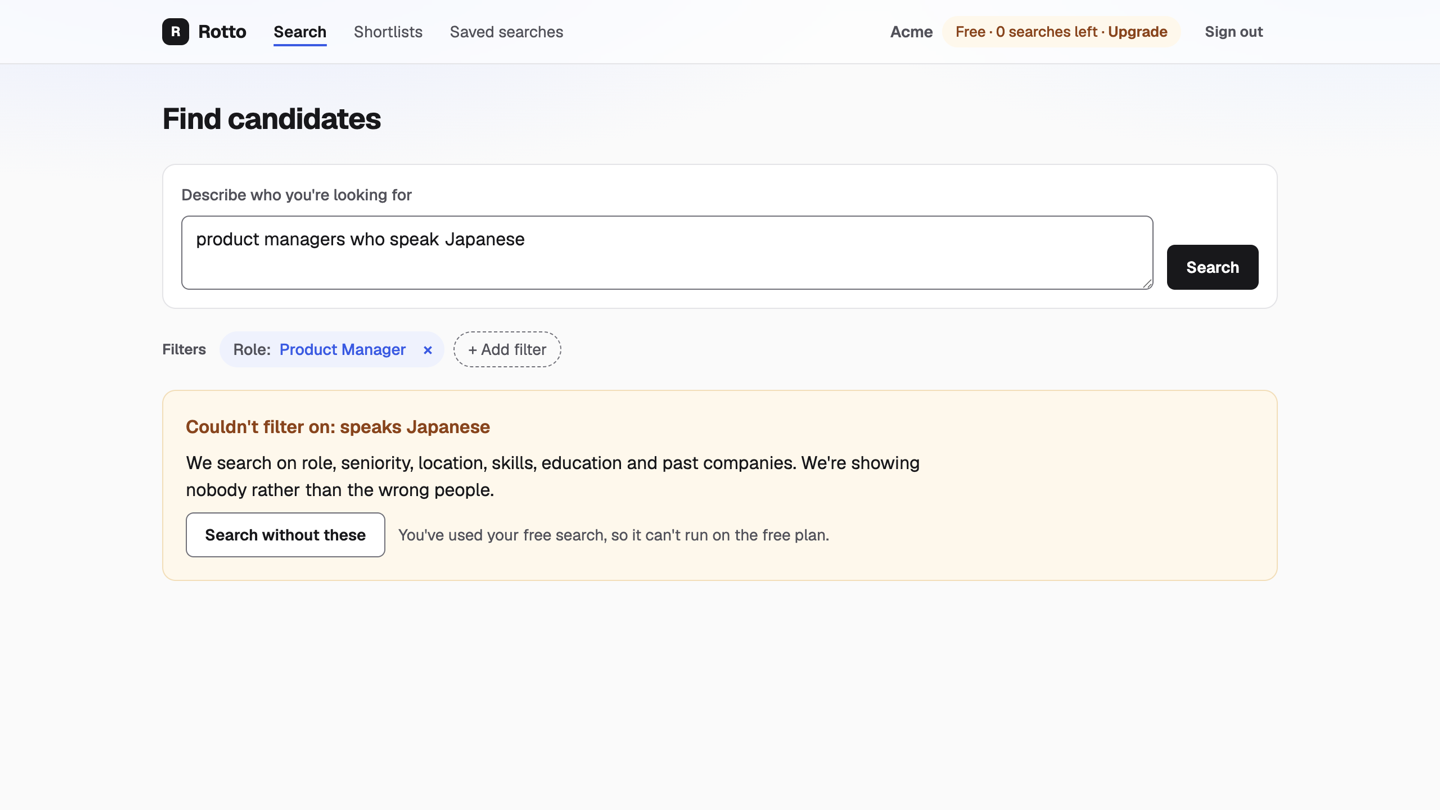
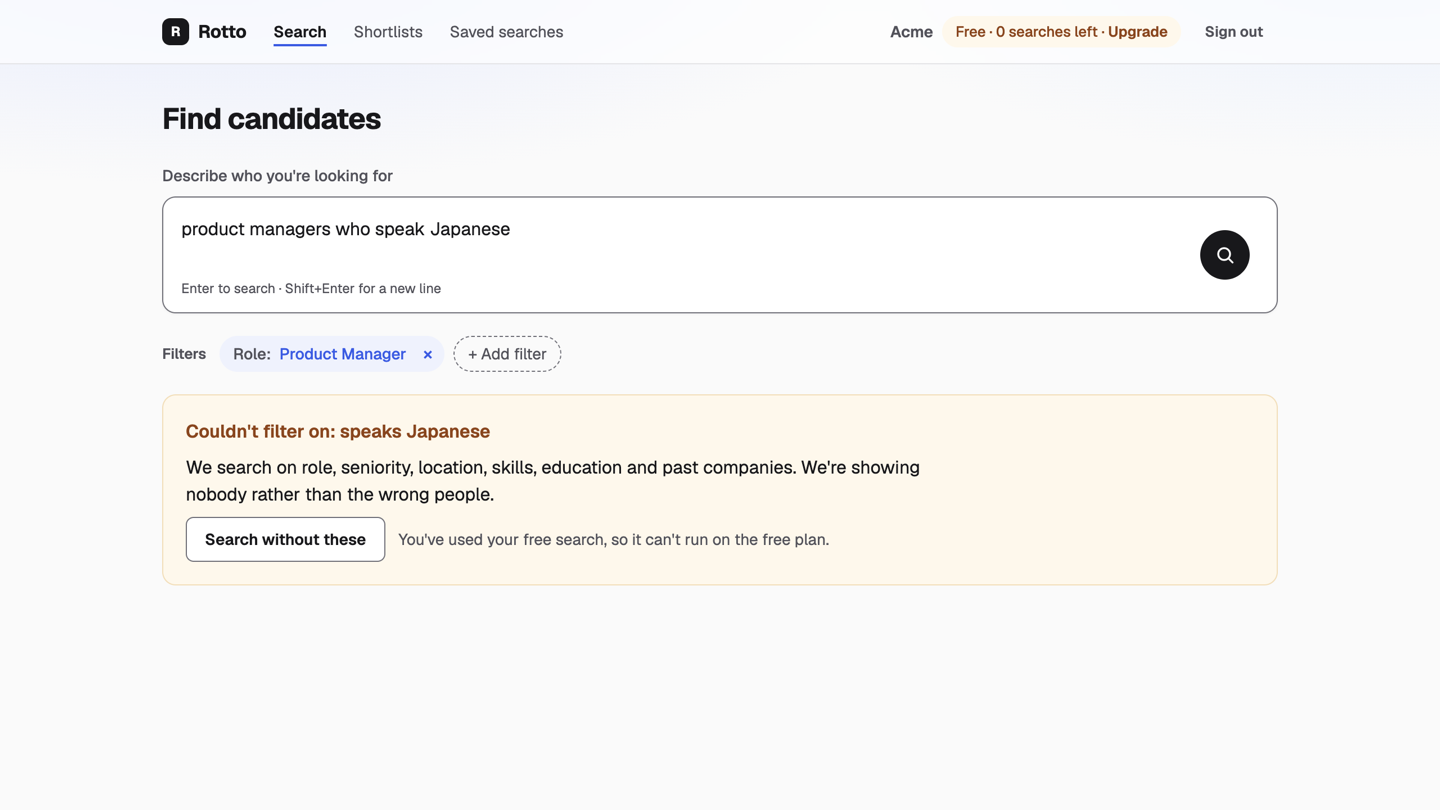
docs: retake README screenshots and record the UI decisions
FR1 and FR3 to FR6, the API table, the request map, the UI summary and
LLD section 6 describe the search page as built. Decisions recorded:
adding a filter still counts as a search for now (with the rule that
would make it free), and where sign-in lands. The plan gets S11, the
README its next steps and a start page screenshot.

Changed region(s): [[0.125, 0.5247, 0.875, 0.7407], [0.125, 0.2778, 0.875, 0.463], [0.125, 0.1852, 0.375, 0.3086]]

diff --git a/cypress/tour/screens.cy.ts b/cypress/tour/screens.cy.ts
@@ -36,6 +36,7 @@ function apiPost(
 }
 
 const README_SHOTS = new Set([
+  "desktop-02-search-welcome",
   "desktop-03-search-results",
   "desktop-04-candidate",
   "desktop-06-shortlist",
@@ -51,7 +52,7 @@ for (const size of SIZES) {
   describe(`Screens (${size.name})`, () => {
     const shot = (name: string) => {
       if (!README_SHOTS.has(`${size.name}-${name}`)) return;
-      cy.wait(300); // let fonts and images settle
+      cy.wait(800); // let fonts and images settle
       cy.screenshot(`${size.name}-${name}`, { capture: size.capture, overwrite: true });
     };
 
@@ -83,28 +84,40 @@ for (const size of SIZES) {
       cy.visit("/sign-in");
       signIn("recruiter@acme.test");
       cy.contains("h1", "Find candidates").should("be.visible");
-      shot("02-search-welcome");
 
       apiPost("/api/search", { brief: BRIEF, filters: FILTERS }).then(({ body }) => {
         const searchId = body.search_id as string;
         const firstId = body.results?.[0]?.id as string;
-        cy.visit(`/search?id=${searchId}`);
-        cy.contains("h2", "candidates").should("be.visible");
-        shot("03-search-results");
 
-        cy.visit(`/people/${firstId}`);
-        cy.get("h1").should("be.visible");
-        shot("04-candidate");
-
-        apiPost("/api/shortlists", { name: "Frontend, New York" }).then(({ body: list }) => {
-          for (const result of body.results?.slice(0, 3) ?? []) {
+        // Two results go on a list first, so the results show who is already shortlisted
+        // and the start page has a shortlist to show.
+        apiPost("/api/shortlists", { name: "NY frontend" }).then(({ body: list }) => {
+          for (const result of body.results?.slice(0, 2) ?? []) {
             apiPost(`/api/shortlists/${list.id}/people/${result.id}`, {});
           }
+
+          // The start page as a recruiter with a free search left sees it.
+          cy.task("resetSearches", "acme");
+          cy.visit("/search");
+          cy.contains("h2", "Saved searches").should("be.visible");
+          cy.contains("h2", "Shortlists").should("be.visible");
+          shot("02-search-welcome");
+
+          cy.task("useFreeSearch", "acme");
+          cy.visit(`/search?id=${searchId}`);
+          cy.contains("h2", "candidates").should("be.visible");
+          cy.contains("button", "✓ On NY frontend").should("be.visible");
+          shot("03-search-results");
+
+          cy.visit(`/people/${firstId}`);
+          cy.get("h1").should("be.visible");
+          shot("04-candidate");
+
           cy.visit("/shortlists");
-          cy.contains("Frontend, New York").should("be.visible");
+          cy.contains("NY frontend").should("be.visible");
           shot("05-shortlists");
           cy.visit(`/shortlists/${list.id}`);
-          cy.contains("h1", "Frontend, New York").should("be.visible");
+          cy.contains("h1", "NY frontend").should("be.visible");
           shot("06-shortlist");
         });
       });

diff --git a/docs/ARCHITECTURE.md b/docs/ARCHITECTURE.md
@@ -8,12 +8,12 @@
 
 Recruiters should be able to:
 
-- **FR1** search for candidates by describing them in plain English, and see the filters the app understood plus ranked, paged results;
+- **FR1** search for candidates by describing them in plain English, and see the filters the app understood plus ranked, paged results, where each result opens the candidate and says which of their shortlists the candidate is already on;
 - **FR2** correct a search by editing or removing any understood filter, without retyping the brief;
 - **FR3** view a candidate's experience, education and skills;
-- **FR4** create, rename and delete named shortlists, and add or remove candidates;
-- **FR5** save a search and re-run it later;
-- **FR6** see their plan and searches remaining (free plan: 1 search in total, paging is free);
+- **FR4** create, rename and delete named shortlists, add or remove candidates, and see their newest shortlists on the search start page;
+- **FR5** save a search and re-run it later, and see their newest saved searches on the search start page;
+- **FR6** see their company, plan and searches remaining (free plan: 1 search in total, paging is free);
 
 and the system should:
 
@@ -180,7 +180,7 @@ Every recruiter route takes `Authorization: Bearer <supabase access token>`.
 
 | Route | Returns | Errors |
 |---|---|---|
-| `POST /api/search` `{ brief, filters? }` | `{ search_id, filters, unsupported, total, results[20], searches_remaining }` | 400, 401, 402 limit reached, 503 LLM down |
+| `POST /api/search` `{ brief, filters? }` | `{ search_id, filters, unsupported, total, results[20], searches_remaining }`; each result says which of my lists the candidate is on | 400, 401, 402 limit reached, 503 LLM down |
 | `GET /api/search/:id?page=N` | `{ search_id, page, page_size, total, results }` | 400, 401, 404 |
 | `GET /api/vocabulary` | allowed values for the filter editor | 401 |
 | `GET /api/people/:id` | candidate + experiences + education | 401, 404 |
@@ -188,7 +188,7 @@ Every recruiter route takes `Authorization: Bearer <supabase access token>`.
 | `GET` / `PATCH` / `DELETE /api/shortlists/:id` | members / rename / delete | 401, 404 |
 | `POST` / `DELETE /api/shortlists/:id/people/:personId` | 200 (adding twice changes nothing) | 401, 404 |
 | `GET` / `POST /api/saved-briefs`, `DELETE /api/saved-briefs/:id` | list / `{ id }` / 204 | 400, 401, 404 |
-| `GET /api/plan` | `{ plan: "free" or "paid", searches_remaining: number or null }` | 401 |
+| `GET /api/plan` | `{ plan: "free" or "paid", searches_remaining: number or null, company_name }` | 401 |
 | `POST /api/billing/events` (no token) | 200, also for repeats and ignored types | 400 bad signature |
 
 Another company's resource returns **404, not 403**, so the API never confirms it exists. Errors share one shape: `{ error: { code, message } }`.
@@ -241,6 +241,7 @@ flowchart LR
 
     S1 -- "(server) spend_search_credit, LLM, run_search" --> T1[("private: companies, searches,<br/>search_results, candidates")]
     S2 -- "(server) get_search_page: 20 rows by (search_id, rank)<br/>scoped to my company, never touches the quota" --> T1
+    S1 & S2 -- "recruiter client: which of my lists each result is on" --> T3
     S3 -- "(server) distinct values, cached in memory" --> T2
     P1 -- "(server) read one candidate" --> T2[("private: candidates, experiences, educations")]
     P1 -- "recruiter client: my shortlist_ids" --> T3
@@ -285,9 +286,9 @@ How each requirement flows:
 
 - **FR1 Search.** The browser sends the brief to `POST /api/search`. The route verifies the token, spends one search credit, asks Claude for filters, validates them, runs one SQL query, stores the ranked ids and returns page 1. *(Deep dives 6.1 to 6.3.)*
 - **FR2 Correct.** The browser sends the edited filters with the brief; Claude is skipped, everything else is the same. It counts as a new search.
-- **FR3 View.** `GET /api/people/:id` reads one candidate with experiences and education.
-- **FR4, FR5 Lists and saved searches.** Simple create, read, update and delete, run as the recruiter so RLS limits it to their company. *(Deep dive 6.4.)*
-- **FR6 Plan.** `GET /api/plan` returns the derived plan and searches remaining.
+- **FR3 View.** `GET /api/people/:id` reads one candidate with experiences and education. Clicking anywhere on a result card opens it.
+- **FR4, FR5 Lists and saved searches.** Simple create, read, update and delete, run as the recruiter so RLS limits it to their company. The same recruiter-scoped read tells each search result which lists the candidate is on, and feeds the at-a-glance tiles on the start page. *(Deep dive 6.4.)*
+- **FR6 Plan.** `GET /api/plan` returns the company name, the derived plan and searches remaining.
 - **FR7 Billing.** `POST /api/billing/events` verifies the signature and applies the event once and in order. *(Deep dive 6.5.)*
 
 ## 5. Tech stack and why
@@ -333,7 +334,7 @@ sequenceDiagram
     participant V as Filter validator (zod + vocabulary)
     participant S as private.run_search()
 
-    R->>UI: types brief, presses Search
+    R->>UI: types brief, presses Enter or the search button
     UI->>API: { brief } + Bearer token
     API->>API: verify token, find company, brief length 1 to 500
     API->>Q: spend one search credit for this company (secret-key client)
@@ -478,6 +479,8 @@ Decisions made while designing and building, with the reason for each. Section 5
 | Oct 9 | Search | "Engineer", "software engineer" or "developer" with no qualifier means every engineering role | Otherwise "software engineers" returns nobody and "staff engineers" includes non-engineers |
 | Oct 9 | Search | Rank closer matches first (more of the brief's values in multi-value fields), then open to work, then experience | Puts the best of the right people on page 1 |
 | Oct 9 | Search | No brief → filters cache yet | The graders run each brief once and the 3 s target is met without it; kept as a next step |
+| Oct 9 | Free plan | Adding a filter to a search already run still counts as a new search, for now | Adding a filter only narrows results the recruiter was already given, so it could safely be free, but the server would have to prove the new filters are a strict narrowing of a stored search, and a mistake there is a free-plan bypass. Listed as a next step |
+| Oct 9 | UI | After Sign out, the next sign-in opens Search; a link opened while signed out still returns to its page | Signing out on one page and in as another company used to land on that page |
 | Oct 9 | Search | The Claude request stays as it is: thinking off and effort `low` were both measured and neither made a search faster | Across 4 briefs the means were 1.81 s (as is), 1.85 s (thinking off) and 1.80 s (effort low), with the same filters. Most of the time is fixed per call, not output |
 
 ### 7.3 Facts from the data that shaped these decisions
@@ -507,4 +510,4 @@ Three layers with a clear split between data, API and UI. **UI:** `app/(app)` pa
 
 ## 10. UI (summary)
 
-Screens: sign in, search, candidate, shortlists, saved searches. Search shows each understood filter as an editable filter tag, a "Couldn't filter on" note when relevant, result cards with an "Add to list" action, and Previous / Next paging. A plan pill shows searches left; at the limit, an Upgrade panel replaces results. Loading, empty and error states are designed, and everything works at phone width. Design tokens, page states and the accessibility checklist are in [LLD.md](LLD.md) section 6.7.
+Screens: sign in, search, candidate, shortlists, saved searches. Search shows each understood filter as an editable filter tag, a "Couldn't filter on" note when relevant, result cards that open the candidate, say which lists they are already on and have an "Add to list" action, and Previous / Next paging. The start page shows the recruiter's two newest saved searches and shortlists at a glance, or an intro with example briefs when nothing is saved yet. A plan pill shows searches left; at the limit, an Upgrade panel replaces results. Loading, empty and error states are designed, and everything works at phone width. Design tokens, page states and the accessibility checklist are in [LLD.md](LLD.md) section 6.7.

diff --git a/docs/LLD.md b/docs/LLD.md
@@ -688,7 +688,7 @@ How the browser side is built, and the visual rules every screen follows (6.7).
 |---|---|---|
 | `/` | `app/page.tsx` | redirects to `/search` |
 | `/sign-in` | `app/(auth)/sign-in/page.tsx` | redirects to `/search` if already signed in |
-| `/search` | `app/(app)/search/page.tsx` | empty brief box |
+| `/search` | `app/(app)/search/page.tsx` | the start page: empty brief box, then the newest saved searches and shortlists, or example briefs |
 | `/search?id={search_id}&page={n}` | same page | loads that search with `GET /api/search/{id}`; refresh and back keep the results |
 | `/people/{id}` | `app/(app)/people/[id]/page.tsx` | |
 | `/shortlists` | `app/(app)/shortlists/page.tsx` | |
@@ -706,6 +706,7 @@ Each `page.tsx` is a small server file that sets the page title (`metadata`, wit
 - supabase-js stores the session in `localStorage` and refreshes the access token before it expires.
 - `SessionProvider` (`src/client/session.tsx`, in the root layout) exposes `{ session, status: 'loading' | 'signed-in' | 'signed-out', signOut }` and follows `onAuthStateChange`.
 - Guard in `app/(app)/layout.tsx`: while `loading`, render nothing but the header shell; when `signed-out`, `router.replace('/sign-in?next=<current path>')`. After sign-in, go to `next` if it is a same-site path, else `/search`.
+- Pressing Sign out goes to plain `/sign-in` with no `next`, so the next sign-in (perhaps as another company) starts on Search. Only a visit made while signed out, such as a shared link, returns to the page asked for.
 
 ### 6.3 API client
 
@@ -743,9 +744,16 @@ Data loading uses one small hook, `useApiQuery(path)`, returning `{ data, error,
 | Next / Previous | `GET /api/search/{id}?page=n` | `router.push` with the new page |
 | Open the page with `?id=` | `GET /api/search/{id}?page=n` | show it; `404` shows the welcome (6.7) |
 | Save search | `POST /api/saved-briefs { brief, filters }` | "Saved" confirmation |
-| Add to list | `GET /api/shortlists` when the menu opens; `POST /api/shortlists/{id}/people/{personId}` | "Added to …" or "Already on …" (`added: false`) |
+| Add to list | `GET /api/shortlists` when the menu opens; `POST /api/shortlists/{id}/people/{personId}` | "Added to …" or "Already on …" (`added: false`); the button then reads "✓ On {list}" |
+| Open the start page (no `?id=`) | `GET /api/saved-briefs`, `GET /api/shortlists` | the 2 newest saved searches and the 2 newest shortlists as tiles, each a link, with "View all (n)" at the end of each row; with no saved searches, the intro and example briefs |
 
-On the free plan, running edited filters or a saved search first says it will use a search (product decision 1).
+On the free plan, running edited filters or a saved search first says it will use a search (ARCHITECTURE 7.1).
+
+**Result cards.** The whole card opens the candidate: the name is the link and its click area is stretched over the card, with the Add to list button on top. A candidate already on one of the recruiter's lists shows "✓ On {list name}", or "✓ On 2 lists" for several, and the menu ticks those lists while still adding to others. List names are loaded with `GET /api/shortlists` only when someone on the page is on a list.
+
+**Filter values.** Tags and the filter editor show seniority and company type the way result cards do ("Senior", "Mid-level", "Startup") and open to work as "Yes" / "No". This is display only: the values sent to the API are unchanged. A saved search's brief is shown exactly as it was typed.
+
+**Brief box.** One rounded box holds the text area and, inside it on the right, centred top to bottom, a round search button (a magnifier icon, named "Search" for screen readers), with the hint "Enter to search · Shift+Enter for a new line" (hidden on a phone). The focus ring is drawn on the box.
 
 Re-running a saved search from `/saved-searches` posts its brief and filters, then navigates to `/search?id=…`.
 
@@ -789,14 +797,14 @@ Breakpoints: phone below 640 px, desktop from 1024 px. Content max 1040 px wide.
 
 | State | Shown in place of results |
 |---|---|
-| Searching | 3 skeleton cards; button reads "Searching…" |
+| Searching | 3 skeleton cards under a "Searching…" heading; the search button is disabled and named "Searching…" |
 | No matches | "No candidates match all of these filters. Try removing a filter." |
 | Unsupported ask | "Couldn't filter on: {items}. We're showing nobody rather than the wrong people." Understood filters stay visible, with **Search without these** to run only them (a new search) |
 | No filters understood | "We couldn't find any requirement in that brief. Try a role, skill, location or seniority." |
 | `402` | "You've used your free search." + Upgrade. Paging and shortlisting earlier searches still work |
 | `503` | "Search is unavailable right now. Your search wasn't used." + Try again |
 | `500`, network | "Something went wrong." + Try again |
-| No search yet, or `404` on `?id=` (an old or wrong link) | A welcome: "Find the right people by describing them", one line on what happens, three example briefs (clicking one fills the box without searching) and, on the free plan, how many searches are left. No error message |
+| No search yet, or `404` on `?id=` (an old or wrong link) | The start page, with no error message. With nothing saved: "Find the right people by describing them", one line on what happens, and three example briefs (clicking one fills the box without searching). With saved searches: straight to "Saved searches" and "Shortlists", each showing its 2 newest as tiles (a saved search opens the Saved searches page, a list opens that list) with "View all (n)" at the end of the row. On the free plan, how many searches are left |
 
 **Accessibility checklist** (WCAG 2.1 AA)
 
@@ -804,7 +812,7 @@ Breakpoints: phone below 640 px, desktop from 1024 px. Content max 1040 px wide.
 - Visible focus: 2 px `--color-primary` outline, 2 px offset, on `:focus-visible`.
 - One `h1` per page; after navigation focus moves to it and the document title updates.
 - The results count and status messages are `aria-live="polite"`; form errors use `role="alert"`.
-- Every input has a visible label; icon-only buttons have an `aria-label`.
+- Every input has a visible label; icon-only buttons have a name for screen readers (an `aria-label` or hidden text).
 - Native `<select>`, `<datalist>` and `<dialog>` for pickers and dialogs.
 - Avatars and logos use `alt=""` (the name is next to them).
 - Motion off under `prefers-reduced-motion`.

diff --git a/README.md b/README.md
@@ -28,8 +28,9 @@ Open http://localhost:3000 and sign in as `recruiter@acme.test` or `recruiter@gl
 
 | | |
 |---|---|
-| ![Couldn't filter on](docs/screenshots/desktop-08-unsupported.png) | ![Candidate](docs/screenshots/desktop-04-candidate.png) |
-| ![Shortlist](docs/screenshots/desktop-06-shortlist.png) | ![Upgrade dialog](docs/screenshots/desktop-10-upgrade-dialog.png) |
+| ![Start page with saved searches](docs/screenshots/desktop-02-search-welcome.png) | ![Couldn't filter on](docs/screenshots/desktop-08-unsupported.png) |
+| ![Candidate](docs/screenshots/desktop-04-candidate.png) | ![Shortlist](docs/screenshots/desktop-06-shortlist.png) |
+| ![Upgrade dialog](docs/screenshots/desktop-10-upgrade-dialog.png) | |
 
 On a phone: [results](docs/screenshots/phone-03-search-results.png), [candidate](docs/screenshots/phone-04-candidate.png), [saved searches](docs/screenshots/phone-07-saved-searches.png), [limit](docs/screenshots/phone-09-limit.png). `npm run screenshots` takes them again from the running app.
 
@@ -38,6 +39,7 @@ On a phone: [results](docs/screenshots/phone-03-search-results.png), [candidate]
 The data is fully structured with closed vocabularies (13 roles, 4 seniority levels, 10 cities, 79 skills, schools, degrees, company types). The 10 sample briefs are reproduced exactly by AND-ing those fields, so search is a translation problem. Claude Haiku receives the brief and a forced tool whose schema lists every allowed value as an enum. The validated filters go to one static SQL statement as typed parameters. Every match is stored with a fixed rank, so paging is a primary-key read and each person appears exactly once.
 
 - **Understanding the brief:** Claude maps phrasing to exact values ("Golang" is Go, "NYC" is New York, "looking for a new role" is open to work). "Engineers", "software engineers" or "developers" with no qualifier mean every engineering role, so "software engineers in California" finds all 831 of them, and "senior engineers in Denver" leaves out product managers.
+- **Reading the results:** filter tags can be edited, removed or added; each card opens the candidate and says which of your shortlists they are already on. The start page shows your newest saved searches and shortlists at a glance.
 - **Ranking:** closer matches first (people who match more of the brief's companies, schools or degrees), then open to work, then most experienced. Every result matches every requirement.
 - **Why not keyword or embedding search:** headlines and job descriptions are generated from the same structured fields, so they add nothing to match on. Fuzzy matching would add wrong people and could never return nobody, and the answer is an exact set of people.
 
@@ -87,8 +89,10 @@ Every decision and the alternatives considered are in [ARCHITECTURE.md](docs/ARC
 
 ## With another week
 
+- Free narrowing: adding a filter to a search you already ran only narrows results you were already given, so it could run without using a search. The server must first prove the new filters are a strict narrowing of the stored search (every list a subset, required skills a superset, the years range inside the old one).
 - Cache filters per normalised brief, so a repeated brief skips Claude.
 - Keyword or embedding search alongside the filters, once profiles carry free text (resumes, bios) that no field covers.
+- In the search box: recent searches and suggestions as you type. On result cards: remove from a list from the same menu that adds.
 - Soft preferences and "did you mean" suggestions when results are empty.
 - A regression set of a few hundred labelled briefs.
 - Streaming the filter tags while results load; an audit log for billing events.

diff --git a/docs/TESTING.md b/docs/TESTING.md
@@ -39,13 +39,13 @@ Each spec runs at desktop width and at 390 px, with a WCAG 2.1 AA `cy.checkA11y(
 
 | Spec | Covers |
 |---|---|
-| `sign-in.cy.ts` | sign in, wrong password, signed-out redirect, plan in the header, sign out |
+| `sign-in.cy.ts` | sign in, wrong password, signed-out redirect back to the page asked for, Search after signing out and in again, plan in the header |
 | `search.cy.ts` | a real brief to filter tags and ranked results, paging, "Couldn't filter on" |
 | `search-states.cy.ts` | loading skeleton, results, refresh, unsupported, no requirement, nobody matches, 402, 503 with Try again, 500, 400, welcome |
 | `correct-search.cy.ts` | remove, add and change filter tags; years and skills; undo; the free-plan notice |
-| `candidate.cy.ts` | the candidate page, back to results, not found |
-| `shortlists.cy.ts` | add from results and the candidate page, duplicate name, keyboard-only add with real key presses (`cypress-real-events`), open, remove, rename, delete, not found, phone menu |
-| `saved-searches.cy.ts` | save from results, run on the free plan, used-up free search, delete |
+| `candidate.cy.ts` | the candidate page, opening it from anywhere on a result card (a real click), back to results, not found |
+| `shortlists.cy.ts` | add from results and the candidate page, the "✓ On {list}" label and ticks on results, the newest lists on the search start page, duplicate name, keyboard-only add with real key presses (`cypress-real-events`), open, remove, rename, delete, not found, phone menu |
+| `saved-searches.cy.ts` | save from results, the newest saved searches on the search start page, run on the free plan, used-up free search, delete |
 | `upgrade.cy.ts` | the Upgrade dialog from the plan pill and the limit panel, focus, company name |
 
 `npm run screenshots` (`cypress/tour/screens.cy.ts`, not part of `npm run e2e`) retakes the README screenshots in `docs/screenshots/`. It sends filters, so it calls no model.

diff --git a/docs/IMPLEMENTATION_PLAN.md b/docs/IMPLEMENTATION_PLAN.md
@@ -130,6 +130,18 @@ Branch `s10-cleanup`. No behaviour change.
   - `test: remove tests that repeat other tests`
   - `docs: tidy README and delete unused screenshots`
 
+### S11 UI polish
+Branch `s11-ui-polish`. FR1, FR2, FR4, FR5. LLD 1.3, 3.7, 6.2, 6.5, 6.7. From a review of the running app.
+
+- **Done when:** results show which lists a candidate is on; filter values read the same way everywhere; the whole result card opens the candidate; the search start page shows the 2 newest saved searches and shortlists as tiles; the search box has an icon button inside; signing out and in again opens Search; the replay and eval scripts say when the app isn't running.
+- **Decided not to build:** adding a filter without using a search (ARCHITECTURE 7.2; README next steps).
+- **Tests:** unit (list ids per result, value labels), integration (list ids on results, and never another company's), Cypress for each change, paging still under 300 ms.
+- **Commits:**
+  - `feat(search): return which lists each result is on`
+  - `feat(ui): show lists on result cards and polish the search page`
+  - `style(ui): restyle the search box`
+  - `docs: retake README screenshots and record the UI decisions`
+
 ## Risks
 
 | Risk | Mitigation |
